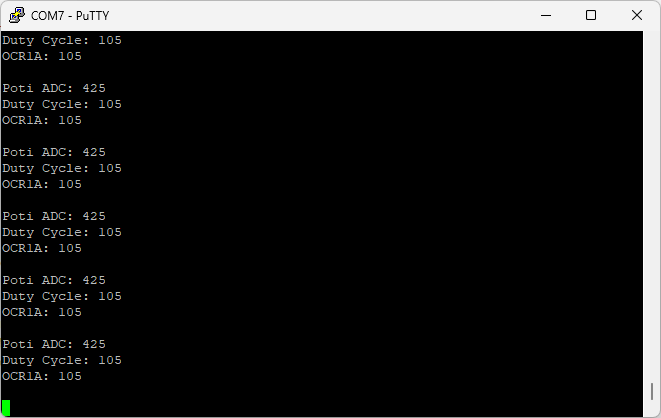
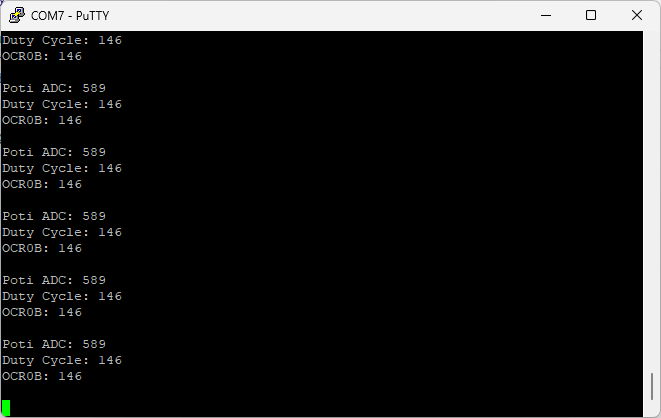
Screenshots für Abgabe

diff --git a/06_Analoge_Ports/6b_Outputs/Aufgabe_04/Aufgabe_04/main.c b/06_Analoge_Ports/6b_Outputs/Aufgabe_04/Aufgabe_04/main.c
@@ -207,7 +207,7 @@ int main(void){
 		}
 		
 		// Print out the set duty in raw ADC and raw OCR0A
-		sprintf(buffer, "Poti ADC: %d\nDuty Cycle: %d\nOCR1A: %d\nICP1: %d%%\n\r", poti.adc, duty, OCR0B, icp_duty);
+		sprintf(buffer, "Poti ADC: %d\nDuty Cycle: %d\nOCR0B: %d\nICP1: %d%%\n\r", poti.adc, duty, OCR0B, icp_duty);
 		uart_print(buffer);
 		
 		_delay_ms(200);

diff --git a/06_Analoge_Ports/6b_Outputs/Aufgabe_02/Aufgabe_02/main.c b/06_Analoge_Ports/6b_Outputs/Aufgabe_02/Aufgabe_02/main.c
@@ -146,7 +146,7 @@ int main(void){
 		OCR0B = duty;
 		
 		// UART Debug 
-		sprintf(buffer, "Poti ADC: %d\nDuty Cycle: %d\nOCR1A: %d\n\r", poti.adc, duty, OCR0B);
+		sprintf(buffer, "Poti ADC: %d\nDuty Cycle: %d\nOCR0B: %d\n\r", poti.adc, duty, OCR0B);
 		uart_print(buffer);
 
 
